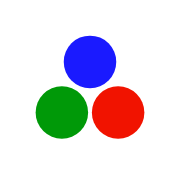
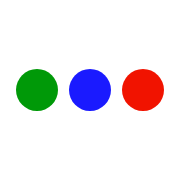
new version

Changed region(s): [[0.0833, 0.1944, 0.9167, 0.7778]]

diff --git a/files/styles.css b/files/styles.css
@@ -24,104 +24,204 @@
     box-sizing: border-box;
 }
 
+/* Stop mobile browsers (Safari on iPhone in particular) from enlarging
+   text on their own, which they do by different amounts per page */
+html {
+    -webkit-text-size-adjust: 100%;
+    text-size-adjust: 100%;
+}
+
+:root {
+    --blue: #1a1aff;
+    --green: #009908;
+    --red: #f11300;
+    --purple: #8c00ff;   /* spare, for a future section */
+    --yellow: #a87d00;   /* spare, for a future section */
+    --ink: #111111;
+    --muted: #6b6b6b;
+    --faded: #c4c4c4;
+    --ease: 0.2s ease;
+}
+
 body {
     font-family: "Jost", sans-serif;
     font-weight: 350;
-    /* 25px on wider screens; on phones, scales down just enough that the
-       longest title on the writing page fits on one line */
-    font-size: min(25px, calc((100vw - 26px) * 0.0495));
-    line-height: 1.2;
+    font-size: clamp(20px, 5.2vw, 28px);
+    line-height: 1.35;
     background-color: #fff;
-    color: #111111;
-    display: flex;
-    justify-content: center;
-    align-items: center;
-    min-height: 100vh;
-    padding: 48px 0;
-    margin: 0;
+    color: var(--ink);
 }
 
+/* One fixed column, anchored to the top, so nothing shifts between pages */
 .container {
-    margin: 0;
-    padding: 18px;
-    box-sizing: border-box;
-    position: relative;
     width: 100%;
-    max-width: 600px;
+    max-width: 756px;
+    margin: 0 auto;
+    padding: min(15vh, 120px) 18px 96px;
 }
 
 @media (max-width: 480px) {
     .container {
-        padding: 13px;
+        padding-left: 13px;
+        padding-right: 13px;
     }
 }
+
+/* Header: the three dots are the home link */
+.site-header {
+    display: flex;
+    align-items: center;
+    gap: 12px;
+    font-size: 18px;
+    font-weight: 450;
+    letter-spacing: 0.01em;
+    margin-bottom: min(10vh, 80px);
+}
+
+.home {
+    display: flex;
+    align-items: center;
+    gap: 5px;
+    height: 44px;
+}
+
+.dot {
+    display: inline-block;
+    width: 12px;
+    height: 12px;
+    border-radius: 50%;
+}
+
+.dot-blue  { background: var(--blue); }
+.dot-green { background: var(--green); }
+.dot-red   { background: var(--red); }
+
+.crumb-sep { color: var(--muted); }
+
+.c-blue   { color: var(--blue); }
+.c-green  { color: var(--green); }
+.c-red    { color: var(--red); }
+.c-purple { color: var(--purple); }
+.c-yellow { color: var(--yellow); }
 
 .content p {
-    margin-bottom: 24px;
+    margin-bottom: 28px;
 }
 
-.link-blue {
+/* Inner pages carry running prose: smaller than the homepage greeting,
+   for a comfortable ~65 characters per line */
+.content-inner p {
+    font-size: clamp(18px, 4.4vw, 23px);
+    line-height: 1.45;
+    margin-bottom: 22px;
+}
+
+/* Links */
+a {
     text-decoration: none;
-    color: #1a1aff;
+    outline: none;
 }
 
-.link-blue:hover {
-    background-color: #1a1aff20;
+.link-blue   { color: var(--blue); }
+.link-green  { color: var(--green); }
+.link-red    { color: var(--red); }
+.link-purple { color: var(--purple); }
+.link-yellow { color: var(--yellow); }
+.link-black  { color: #000000; }
+
+/* Writing list */
+.works {
+    display: flex;
+    flex-direction: column;
+    gap: 40px;
 }
 
-.link-green {
-    text-decoration: none;
-    color: #009908;
+.works-group {
+    display: flex;
+    flex-direction: column;
+    gap: 14px;
 }
 
-.link-green:hover {
-    background-color: #00990820;
+.works-lang {
+    font-size: 14px;
+    font-weight: 350;
+    letter-spacing: 0.12em;
+    text-transform: uppercase;
+    color: var(--muted);
+    padding-left: 80px;
 }
 
-.link-purple {
-    text-decoration: none;
-    color: #8c00ff;
+.work {
+    display: grid;
+    grid-template-columns: 80px minmax(0, 1fr);
+    align-items: baseline;
 }
 
-.link-purple:hover {
-    background-color: #8c00ff20;
+.work-year {
+    font-size: 18px;
+    color: var(--muted);
+    font-variant-numeric: tabular-nums;
 }
 
-.link-red {
-    text-decoration: none;
-    color: #f11300;
+.work-title {
+    display: block;
+    font-size: 0.9em;
+    line-height: 1.25;
 }
 
-.link-red:hover {
-    background-color: #f1130020;
+.work-venue {
+    display: block;
+    font-size: 17px;
+    color: var(--muted);
 }
 
-.link-yellow {
-    text-decoration: none;
-    color: #a87d00;
+@media (max-width: 480px) {
+    .works-lang { padding-left: 52px; }
+    .work { grid-template-columns: 52px minmax(0, 1fr); }
+    .work-year { font-size: 15px; }
+    .work-venue { font-size: 15px; }
 }
 
-.link-yellow:hover {
-    background-color: #a87d0020;
+/* Hover: spotlight + dot echo.
+   Whatever you point at stays; everything else fades back.
+   Coloured links also make their matching dot swell; black links don't. */
+.content,
+.content a,
+.crumb,
+.works-lang,
+.dot {
+    transition: color var(--ease), opacity var(--ease), transform var(--ease);
 }
 
-.link-black {
-    text-decoration: none;
-    color: #000000;
+@media (hover: hover) {
+    body:has(.content a:hover) .content { color: var(--faded); }
+    body:has(.content a:hover) .content a:not(:hover),
+    body:has(.content a:hover) .crumb,
+    body:has(.content a:hover) .works-lang,
+    body:has(.content a:hover) .dot { opacity: 0.3; }
+
+    body:has(.content .link-blue:hover) .dot-blue,
+    body:has(.content .link-green:hover) .dot-green,
+    body:has(.content .link-red:hover) .dot-red { opacity: 1; transform: scale(1.6); }
+
+    body:has(.home:hover) .content,
+    body:has(.home:hover) .crumb { opacity: 0.3; }
 }
 
-.link-black:hover {
-    background-color: #00000020;
-}
+/* Same behaviour when tabbing through links with the keyboard */
+body:has(.content a:focus-visible) .content { color: var(--faded); }
+body:has(.content a:focus-visible) .content a:not(:focus-visible),
+body:has(.content a:focus-visible) .crumb,
+body:has(.content a:focus-visible) .works-lang,
+body:has(.content a:focus-visible) .dot { opacity: 0.3; }
 
-/* Writing page: wider column so each title and venue fit on one line
-   on desktop; below 900px the venue moves to its own line */
-.container-wide {
-    max-width: 900px;
-}
+body:has(.content .link-blue:focus-visible) .dot-blue,
+body:has(.content .link-green:focus-visible) .dot-green,
+body:has(.content .link-red:focus-visible) .dot-red { opacity: 1; transform: scale(1.6); }
 
-@media (min-width: 900px) {
-    .mobile-break {
-        display: none;
-    }
+body:has(.home:focus-visible) .content,
+body:has(.home:focus-visible) .crumb { opacity: 0.3; }
+
+@media (prefers-reduced-motion: reduce) {
+    * { transition: none !important; }
 }

diff --git a/writing.html b/writing.html
@@ -2,18 +2,43 @@
 layout: default
 description: Bram Verbeek - Writing
 title: Writing
-wide: true
+section: blue
+# true  = separate English / Nederlands lists
+# false = one list, newest first; pieces not in Dutch get (EN), (FR), ...
+group_by_language: false
 ---
-        <p><a href="index.html" class="link-blue">BACK</a></p>
-{% assign languages = "EN,NL" | split: "," %}
-{% for lang in languages %}
-  {% assign items = site.data.works | where: "lang", lang %}
-  {% if items.size > 0 %}
-        <p>
-        <b>{{ lang }}</b><br>
-    {% for work in items %}
-        <a href="{{ work.url }}" class="link-black">{{ work.title | upcase | escape }} <br class="mobile-break">&mdash; <span style="font-weight:350">{{ work.venue | escape }}, {{ work.year }}</span></a>{% unless forloop.last %}<br>{% endunless %}
-    {% endfor %}
-        </p>
-  {% endif %}
-{% endfor %}
+{%- assign lang_names = "EN:English,NL:Nederlands,FR:Français,DE:Deutsch" | split: "," %}
+        <div class="works">
+{%- if page.group_by_language %}
+  {%- for pair in lang_names %}
+    {%- assign code = pair | split: ":" | first %}
+    {%- assign label = pair | split: ":" | last %}
+    {%- assign items = site.data.works | where: "lang", code %}
+    {%- if items.size > 0 %}
+            <section class="works-group">
+                <h2 class="works-lang">{{ label }}</h2>
+      {%- assign prev_year = "" %}
+      {%- for work in items %}
+                <a href="{{ work.url }}" class="work link-black">
+                    <span class="work-year">{% if work.year != prev_year %}{{ work.year }}{% endif %}</span>
+                    <span><span class="work-title">{{ work.title | escape }}</span><span class="work-venue">{{ work.venue | escape }}</span></span>
+                </a>
+        {%- assign prev_year = work.year %}
+      {%- endfor %}
+            </section>
+    {%- endif %}
+  {%- endfor %}
+{%- else %}
+            <section class="works-group">
+  {%- assign years = site.data.works | group_by: "year" | sort: "name" | reverse %}
+  {%- for year in years %}
+    {%- for work in year.items %}
+                <a href="{{ work.url }}" class="work link-black">
+                    <span class="work-year">{% if forloop.first %}{{ year.name }}{% endif %}</span>
+                    <span><span class="work-title">{{ work.title | escape }}</span><span class="work-venue">{{ work.venue | escape }}{% if work.lang != "NL" %} <span class="work-lang">({{ work.lang }})</span>{% endif %}</span></span>
+                </a>
+    {%- endfor %}
+  {%- endfor %}
+            </section>
+{%- endif %}
+        </div>

diff --git a/research.html b/research.html
@@ -2,17 +2,17 @@
 layout: default
 description: Bram Verbeek - Research
 title: Research
+section: green
 ---
-        <p><a href="index.html" class="link-green">BACK</a></p>
-
         <p>
-        My research focuses on the use of air quality data to understand
-        the distribution and impact of pollution in Flanders and inform policy decisions.
+        I work on air quality at <a href="https://vmm.vlaanderen.be" class="link-black">VMM</a>,
+        using measurement data to understand where pollution in Flanders comes from,
+        who it affects, and how policies can reduce it. In practice I spend most
+        of my time coding and looking at plots.
         </p>
         <p>
-        My original training is in physics, and in the past I have also researched topics
-        related to high-order computations in quantum field and string theory.
-        </p>
-        <p>
-        You can find some of my work <a href="https://scholar.google.com/citations?user=gcEu2RsAAAAJ&hl=en" class="link-black">here</a>.
+        Before that I was a theoretical physicist, working on high-order computations
+        in quantum field and string theory and the mathematical structures that underlie them. 
+        The work I did there is listed on  
+        <a href="https://inspirehep.net/authors/1474086" class="link-black">INSPIRE</a>.
         </p>

diff --git a/index.html b/index.html
@@ -2,15 +2,11 @@
 layout: default
 description: Bram Verbeek
 ---
+        <p>Hi there, I'm Bram.</p>
         <p>
-        Hi there, I'm Bram.
-        </p>
+        I'm an environmental <a href="/research.html" class="link-green">researcher</a>
+        at <a href="https://vmm.vlaanderen.be" class="link-black">VMM</a>.</p>
         <p>
-        I'm an environmental
-        <a href="research.html" class="link-green">researcher</a> at
-        <a href="https://vmm.vlaanderen.be" class="link-black">VMM</a>. <br>
-        I also
-        <a href="writing.html" class="link-blue">write</a>
-        in my spare time. <br>
-        Feel free to <a href="mailto:hello@bramverbeek.be" class="link-red">contact</a> me with questions.
+        I also <a href="/writing.html" class="link-blue">write</a> occasionally about whatever interests me.
         </p>
+        <p>Feel free to <a href="mailto:hello@bramverbeek.be" class="link-red">contact</a> me with questions.</p>

diff --git a/_layouts/default.html b/_layouts/default.html
@@ -21,10 +21,16 @@
     <link rel="stylesheet" href="/files/styles.css">
 </head>
 <body>
-    <div class="container{% if page.wide %} container-wide{% endif %}">
-        <div class="content">
+    <div class="container">
+        <header class="site-header">
+            <a href="/" class="home" aria-label="Home"><span class="dot dot-green"></span><span class="dot dot-blue"></span><span class="dot dot-red"></span></a>
+            {%- if page.section %}
+            <span class="crumb"><span class="crumb-sep">/</span> <span class="c-{{ page.section }}">{{ page.title }}</span></span>
+            {%- endif %}
+        </header>
+        <main class="content{% if page.section %} content-inner{% endif %}">
 {{ content }}
-        </div>
+        </main>
     </div>
     <script data-goatcounter="https://bramverbeek.goatcounter.com/count" async src="//gc.zgo.at/count.js"></script>
 </body>

diff --git a/404.html b/404.html
@@ -4,7 +4,4 @@ title: Not found
 description: Bram Verbeek
 permalink: /404.html
 ---
-        <p>
-        This page doesn't exist.<br>
-        <a href="/" class="link-black">BACK</a> to home.
-        </p>
+        <p>This page doesn't exist. Go back <a href="/" class="link-black">home</a>.</p>
